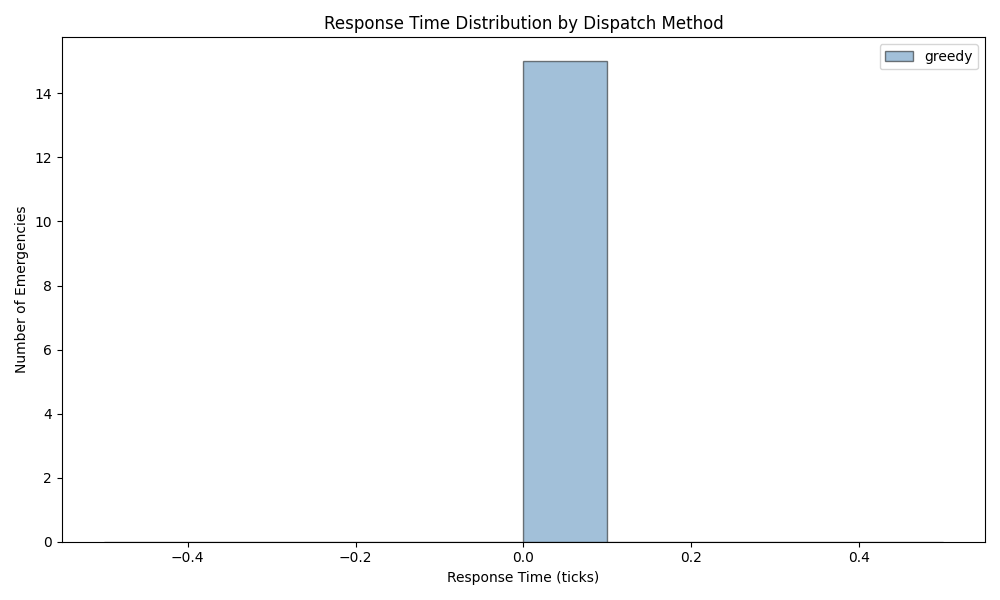
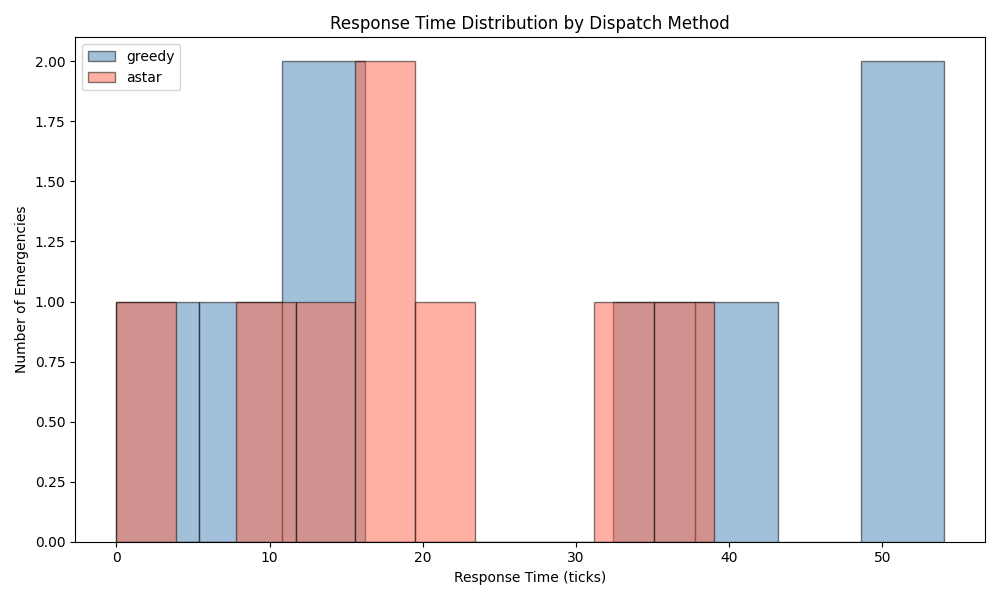
modyfing the visualization file

diff --git a/ambulance-dispatch/src/simulation/simulation.py b/ambulance-dispatch/src/simulation/simulation.py
@@ -33,8 +33,26 @@ class Simulation:
             self.time += 1
         print(f"simulation ended at t={self.time}")
         print(f"Avg response time ({self.mode}): {self.dispatch.average_response_time(self.mode):.2f} ticks")
+        self._run_hc_once()##########################
         self.save_log()
         self.save_hc_history()
+
+    def _run_hc_once(self):
+        if not self.hill_climbing or not self.history:
+            return
+
+        print("Running Hill Climbing for standby optimization...")
+        emergency_nodes = [e.node for e in self.history]
+
+        _, _, fitness_history = self.hill_climbing.climb(
+            emergencies    = emergency_nodes,
+            num_ambulances = len(self.ambulances),
+            max_iter       = 20
+        )
+
+        self.hc_history = fitness_history
+        print(f"HC done: {len(fitness_history)} iterations")
+
 
     def _process_events(self):
         while not self.event_queue.is_empty():

diff --git a/ambulance-dispatch/tests/test-simulation.py b/ambulance-dispatch/tests/test-simulation.py
@@ -1,6 +1,7 @@
 import json
 import sys
 import os
+import math
 sys.path.insert(0, os.path.abspath(os.path.join(os.path.dirname(__file__), "..")))
 
 from src.core.graph import Graph
@@ -40,7 +41,12 @@ def build_emergencies():
         if e["node_id"] in graph.nodes
     ]
 
-hc = HillClimbing(graph, lambda a, b: astar(a, b)[1])
+def fast_distance(a, b):
+    na = graph.nodes[a]
+    nb = graph.nodes[b]
+    return math.sqrt((na.lat - nb.lat)**2 + (na.lon - nb.lon)**2)
+
+hc = HillClimbing(graph, fast_distance)
 
 # ── Run 1: Greedy ─────────────────────────────────────────
 print("\n" + "="*50)

diff --git a/ambulance-dispatch/tests/test_visualization.py b/ambulance-dispatch/tests/test_visualization.py
@@ -1,7 +1,18 @@
+import json
 from src.visualization.histograms import plot_response_histogram, plot_hc_convergence
-import matplotlib.pyplot as plt  # ← add this
 
-plot_response_histogram()
-plt.close()
-plot_hc_convergence()
-plt.close()
+# merge greedy and astar logs
+with open("data/response_log_greedy.json") as f:
+    greedy_log = json.load(f)
+
+with open("data/response_log_astar.json") as f:
+    astar_log = json.load(f)
+
+combined = greedy_log + astar_log
+
+with open("data/response_log_all.json", "w") as f:
+    json.dump(combined, f, indent=2)
+
+# plot
+plot_response_histogram("data/response_log_all.json")
+plot_hc_convergence("data/hc_history.json")

diff --git a/ambulance-dispatch/tests/test_simulation.py b/ambulance-dispatch/tests/test_simulation.py
@@ -1,4 +1,5 @@
 from src.core.simulation_engine import SimulationEngine
+import math
 
 
 def test_dispatch_integration():
